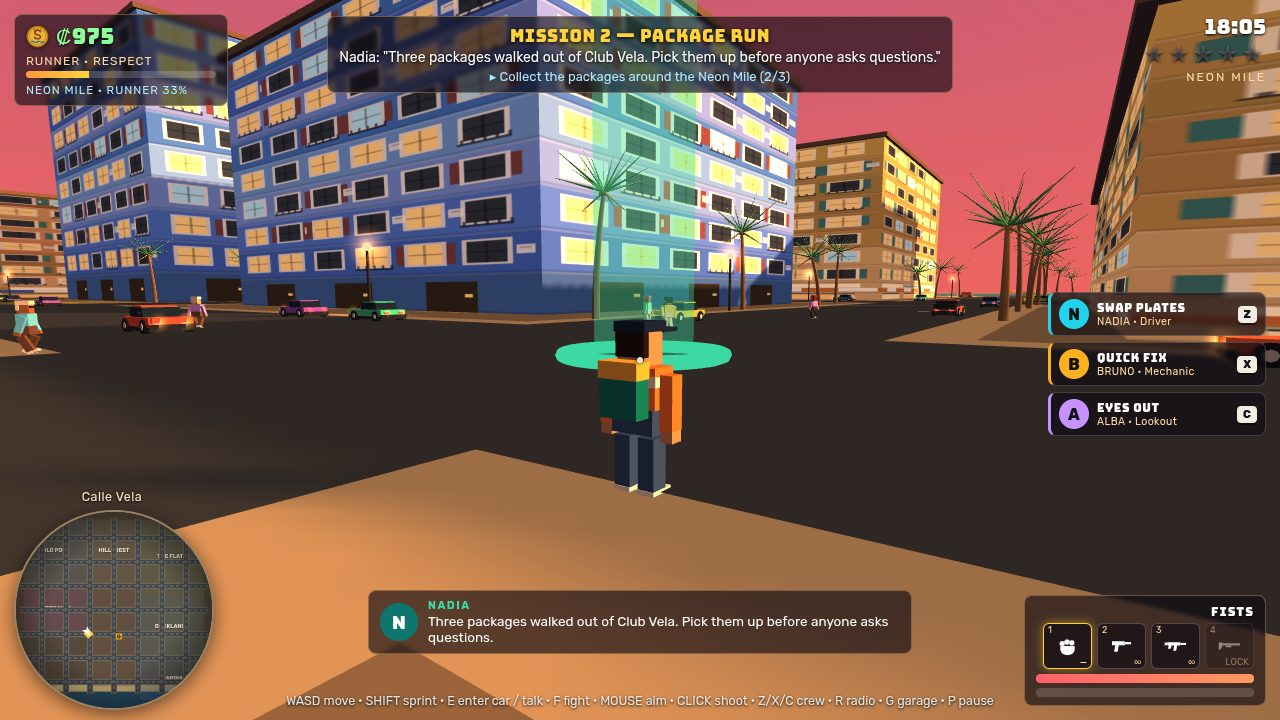
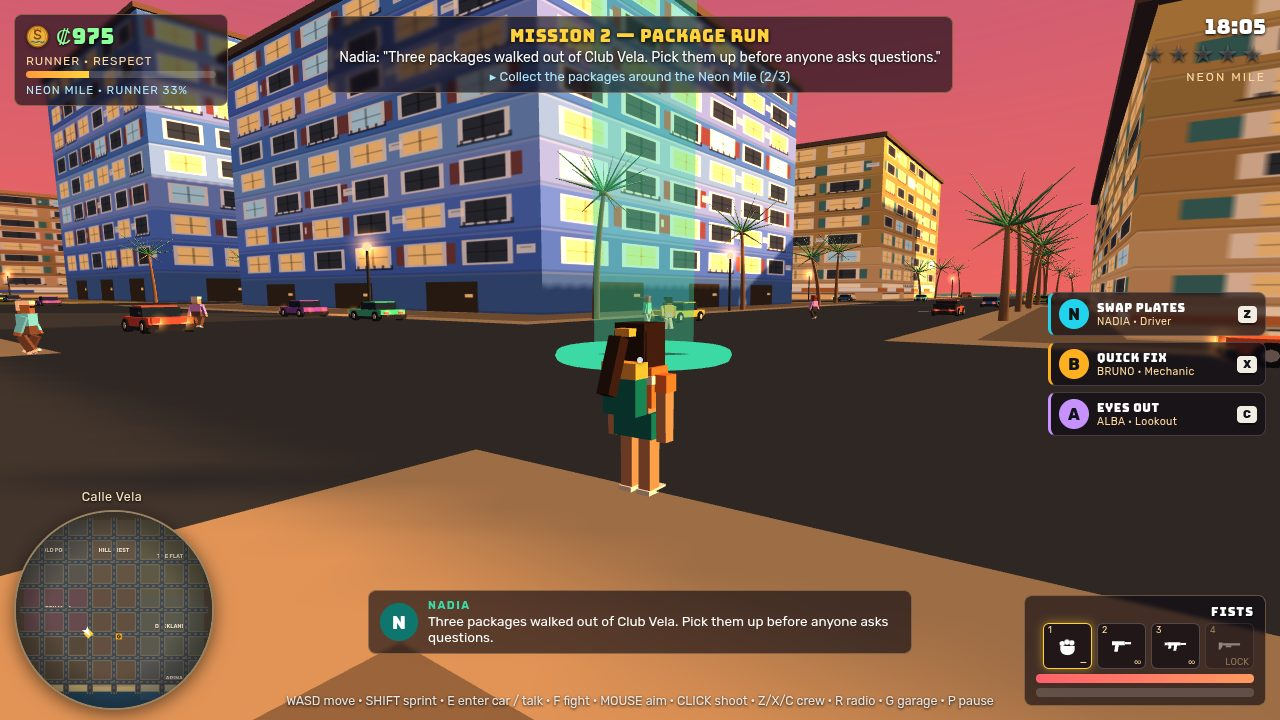
Nadia protagonist model

Changed region(s): [[0.4688, 0.4278, 0.5312, 0.7028]]

diff --git a/game/src/player.js b/game/src/player.js
@@ -3,52 +3,75 @@
 // any traffic car, patrol car or the Serena GT into the player's ride.
 
 function makePlayerMesh() {
-  // the protagonist reads from behind, over the shoulder, in almost every frame
-  // the player ever sees — so he is built for that angle: sunset-orange jacket
-  // with a white chest stripe, a teal backpack, navy cap, white sneakers
+  // the protagonist is NADIA — the voice in the dialogue strip and the first
+  // crew card — and she reads from behind, over the shoulder, in almost every
+  // frame the player ever sees, so she is built for that angle: long dark hair
+  // in a high ponytail over a teal backpack, a sunset-orange crop top with a
+  // white chest stripe, bare arms and legs, teal shorts, white sneakers. Her
+  // silhouette is deliberately slimmer-waisted and narrower-shouldered than
+  // the pedestrian models so she never reads as one of the crowd — or as a man.
   const p = new THREE.Group();
-  const jacket = new THREE.MeshLambertMaterial({ color: 0xff7a2e });
+  const top = new THREE.MeshLambertMaterial({ color: 0xff7a2e });
   const skin = new THREE.MeshLambertMaterial({ color: 0xc98d5f });
-  const denim = new THREE.MeshLambertMaterial({ color: 0x2e4a7a });
-  const navy = new THREE.MeshLambertMaterial({ color: 0x14213d });
-  const chest = new THREE.Mesh(new THREE.BoxGeometry(0.68, 0.48, 0.38), jacket);
-  chest.position.y = 1.3; chest.castShadow = true; p.add(chest);
-  const stripe = new THREE.Mesh(new THREE.BoxGeometry(0.7, 0.12, 0.4),
+  const teal = new THREE.MeshLambertMaterial({ color: 0x0f766e });
+  const hairMat = new THREE.MeshLambertMaterial({ color: 0x2a1a12 });
+  // torso: narrow shoulders, a skin midriff under the crop top, teal shorts
+  const chest = new THREE.Mesh(new THREE.BoxGeometry(0.56, 0.46, 0.34), top);
+  chest.position.y = 1.31; chest.castShadow = true; p.add(chest);
+  const stripe = new THREE.Mesh(new THREE.BoxGeometry(0.58, 0.1, 0.36),
     new THREE.MeshLambertMaterial({ color: 0xf5f2ea }));
-  stripe.position.y = 1.38; p.add(stripe);
-  const hips = new THREE.Mesh(new THREE.BoxGeometry(0.58, 0.34, 0.34), denim);
-  hips.position.y = 0.92; p.add(hips);
-  const pack = new THREE.Mesh(new THREE.BoxGeometry(0.52, 0.62, 0.24),
-    new THREE.MeshLambertMaterial({ color: 0x0f766e }));
-  pack.position.set(0, 1.28, -0.32); pack.castShadow = true; p.add(pack);
-  const packFlap = new THREE.Mesh(new THREE.BoxGeometry(0.54, 0.2, 0.26),
+  stripe.position.y = 1.4; p.add(stripe);
+  const waist = new THREE.Mesh(new THREE.BoxGeometry(0.44, 0.16, 0.29), skin);
+  waist.position.y = 1.02; p.add(waist);
+  const hips = new THREE.Mesh(new THREE.BoxGeometry(0.54, 0.3, 0.32), teal);
+  hips.position.y = 0.86; p.add(hips);
+  const pack = new THREE.Mesh(new THREE.BoxGeometry(0.46, 0.58, 0.22), teal);
+  pack.position.set(0, 1.3, -0.3); pack.castShadow = true; p.add(pack);
+  const packFlap = new THREE.Mesh(new THREE.BoxGeometry(0.48, 0.18, 0.24),
     new THREE.MeshLambertMaterial({ color: 0xf2b13d }));
-  packFlap.position.set(0, 1.52, -0.32); p.add(packFlap);
-  const head = new THREE.Mesh(new THREE.BoxGeometry(0.38, 0.42, 0.38), skin);
+  packFlap.position.set(0, 1.52, -0.3); p.add(packFlap);
+  // head and hair: full dark hair — crown, side panels, a back fall to the
+  // shoulders, a fringe, and the ponytail hanging behind the backpack
+  const head = new THREE.Mesh(new THREE.BoxGeometry(0.36, 0.42, 0.36), skin);
   head.position.y = 1.76; head.castShadow = true; p.add(head);
-  const hair = new THREE.Mesh(new THREE.BoxGeometry(0.4, 0.3, 0.1),
-    new THREE.MeshLambertMaterial({ color: 0x1c1410 }));
-  hair.position.set(0, 1.8, -0.16); p.add(hair);
-  const cap = new THREE.Mesh(new THREE.BoxGeometry(0.44, 0.12, 0.44), navy);
-  cap.position.y = 2.0; p.add(cap);
-  const brim = new THREE.Mesh(new THREE.BoxGeometry(0.44, 0.05, 0.3), navy);
-  brim.position.set(0, 1.95, 0.32); p.add(brim);
-  const legGeo = new THREE.BoxGeometry(0.22, 0.7, 0.26);
-  const legL = new THREE.Mesh(legGeo, denim);
-  legL.position.set(-0.17, 0.36, 0); p.add(legL);
-  const legR = new THREE.Mesh(legGeo, denim); legR.position.x = 0.17; legR.position.y = 0.36; p.add(legR);
+  const crown = new THREE.Mesh(new THREE.BoxGeometry(0.42, 0.18, 0.42), hairMat);
+  crown.position.y = 1.95; crown.castShadow = true; p.add(crown);
+  const fringe = new THREE.Mesh(new THREE.BoxGeometry(0.4, 0.13, 0.07), hairMat);
+  fringe.position.set(0, 1.9, 0.17); p.add(fringe);
+  for (const sx of [-1, 1]) {
+    const side = new THREE.Mesh(new THREE.BoxGeometry(0.07, 0.44, 0.38), hairMat);
+    side.position.set(sx * 0.19, 1.73, 0); p.add(side);
+  }
+  const backFall = new THREE.Mesh(new THREE.BoxGeometry(0.42, 0.5, 0.08), hairMat);
+  backFall.position.set(0, 1.7, -0.18); p.add(backFall);
+  const tie = new THREE.Mesh(new THREE.BoxGeometry(0.2, 0.09, 0.2),
+    new THREE.MeshLambertMaterial({ color: 0xf2b13d }));
+  tie.position.set(0, 1.94, -0.25); p.add(tie);
+  const pony = new THREE.Mesh(new THREE.BoxGeometry(0.17, 0.66, 0.15), hairMat);
+  pony.position.set(0, 1.58, -0.52); pony.rotation.x = 0.35; pony.castShadow = true; p.add(pony);
+  const shades = new THREE.Mesh(new THREE.BoxGeometry(0.3, 0.07, 0.04),
+    new THREE.MeshLambertMaterial({ color: 0x14161c }));
+  shades.position.set(0, 1.78, 0.19); p.add(shades);
+  // bare legs under the shorts, slimmer and closer-set than a pedestrian's
+  const legGeo = new THREE.BoxGeometry(0.16, 0.72, 0.2);
+  const legL = new THREE.Mesh(legGeo, skin);
+  legL.position.set(-0.13, 0.36, 0); p.add(legL);
+  const legR = new THREE.Mesh(legGeo, skin); legR.position.x = 0.13; legR.position.y = 0.36; p.add(legR);
   for (const leg of [legL, legR]) {
-    const shoe = new THREE.Mesh(new THREE.BoxGeometry(0.23, 0.11, 0.38),
+    const shoe = new THREE.Mesh(new THREE.BoxGeometry(0.18, 0.11, 0.36),
       new THREE.MeshLambertMaterial({ color: 0xf5f2ea }));
     shoe.position.set(0, -0.33, 0.05); leg.add(shoe);
   }
-  const armGeo = new THREE.BoxGeometry(0.17, 0.64, 0.21);
-  const armL = new THREE.Mesh(armGeo, jacket);
-  armL.position.set(-0.43, 1.14, 0); p.add(armL);
-  const armR = new THREE.Mesh(armGeo, jacket); armR.position.x = 0.43; armR.position.y = 1.14; p.add(armR);
+  // slim bare arms with orange shoulder caps where the top's sleeves end
+  const armGeo = new THREE.BoxGeometry(0.13, 0.62, 0.17);
+  const armL = new THREE.Mesh(armGeo, skin);
+  armL.position.set(-0.35, 1.12, 0); p.add(armL);
+  const armR = new THREE.Mesh(armGeo, skin); armR.position.x = 0.35; armR.position.y = 1.12; p.add(armR);
   for (const arm of [armL, armR]) {
-    const hand = new THREE.Mesh(new THREE.BoxGeometry(0.16, 0.17, 0.19), skin);
-    hand.position.set(0, -0.37, 0); arm.add(hand);
+    const hand = new THREE.Mesh(new THREE.BoxGeometry(0.13, 0.16, 0.16), skin);
+    hand.position.set(0, -0.36, 0); arm.add(hand);
+    const sleeve = new THREE.Mesh(new THREE.BoxGeometry(0.17, 0.2, 0.21), top);
+    sleeve.position.set(0, 0.24, 0); arm.add(sleeve);
   }
   p.userData = { legL: legL, legR: legR, armL: armL, armR: armR };
   return p;
